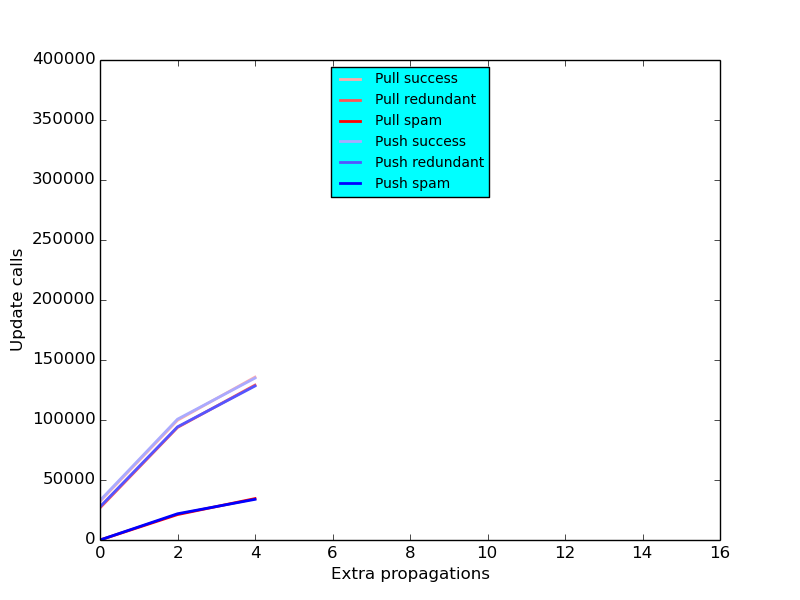
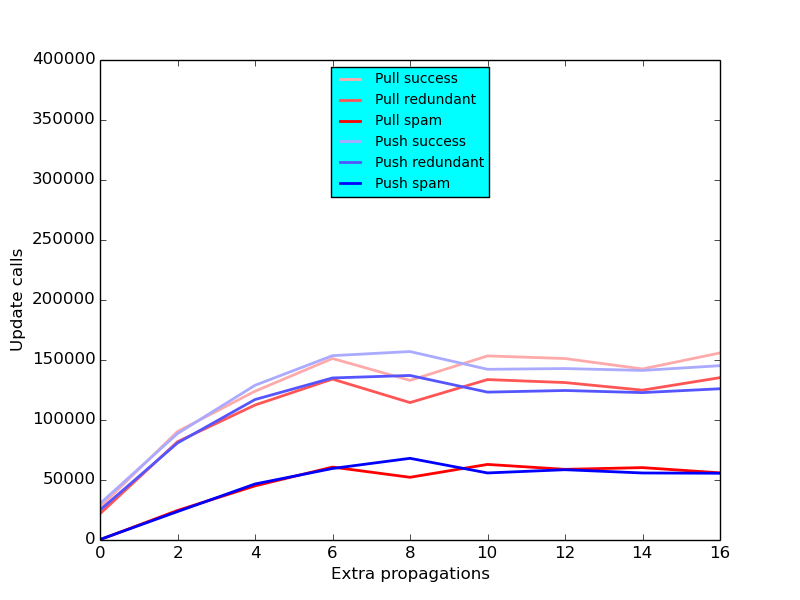
added push vs pull test

Changed region(s): [[0.125, 0.57, 0.9062, 0.9], [0.1875, 0.75, 0.9062, 0.87]]

diff --git a/benchmark/filterupdates_push_vs_pull/quasar_extraprop_plot.py b/benchmark/filterupdates_push_vs_pull/quasar_extraprop_plot.py
@@ -17,24 +17,24 @@ pull_samples = [
     json.load(open("benchmark/filterupdates_push_vs_pull/quasar_extraprop_pull_a.json", "r")),  # NOQA
     json.load(open("benchmark/filterupdates_push_vs_pull/quasar_extraprop_pull_b.json", "r")),  # NOQA
     json.load(open("benchmark/filterupdates_push_vs_pull/quasar_extraprop_pull_c.json", "r")),  # NOQA
-#   json.load(open("benchmark/filterupdates_push_vs_pull/quasar_extraprop_pull_d.json", "r")),  # NOQA
-#   json.load(open("benchmark/filterupdates_push_vs_pull/quasar_extraprop_pull_e.json", "r")),  # NOQA
-#   json.load(open("benchmark/filterupdates_push_vs_pull/quasar_extraprop_pull_f.json", "r")),  # NOQA
-#   json.load(open("benchmark/filterupdates_push_vs_pull/quasar_extraprop_pull_g.json", "r")),  # NOQA
-#   json.load(open("benchmark/filterupdates_push_vs_pull/quasar_extraprop_pull_h.json", "r")),  # NOQA
-#   json.load(open("benchmark/filterupdates_push_vs_pull/quasar_extraprop_pull_i.json", "r")),  # NOQA
+    json.load(open("benchmark/filterupdates_push_vs_pull/quasar_extraprop_pull_d.json", "r")),  # NOQA
+    json.load(open("benchmark/filterupdates_push_vs_pull/quasar_extraprop_pull_e.json", "r")),  # NOQA
+    json.load(open("benchmark/filterupdates_push_vs_pull/quasar_extraprop_pull_f.json", "r")),  # NOQA
+    json.load(open("benchmark/filterupdates_push_vs_pull/quasar_extraprop_pull_g.json", "r")),  # NOQA
+    json.load(open("benchmark/filterupdates_push_vs_pull/quasar_extraprop_pull_h.json", "r")),  # NOQA
+    json.load(open("benchmark/filterupdates_push_vs_pull/quasar_extraprop_pull_i.json", "r")),  # NOQA
 ]
 
 push_samples = [
     json.load(open("benchmark/filterupdates_push_vs_pull/quasar_extraprop_push_a.json", "r")),  # NOQA
     json.load(open("benchmark/filterupdates_push_vs_pull/quasar_extraprop_push_b.json", "r")),  # NOQA
     json.load(open("benchmark/filterupdates_push_vs_pull/quasar_extraprop_push_c.json", "r")),  # NOQA
-#   json.load(open("benchmark/filterupdates_push_vs_pull/quasar_extraprop_push_d.json", "r")),  # NOQA
-#   json.load(open("benchmark/filterupdates_push_vs_pull/quasar_extraprop_push_e.json", "r")),  # NOQA
-#   json.load(open("benchmark/filterupdates_push_vs_pull/quasar_extraprop_push_f.json", "r")),  # NOQA
-#   json.load(open("benchmark/filterupdates_push_vs_pull/quasar_extraprop_push_g.json", "r")),  # NOQA
-#   json.load(open("benchmark/filterupdates_push_vs_pull/quasar_extraprop_push_h.json", "r")),  # NOQA
-#   json.load(open("benchmark/filterupdates_push_vs_pull/quasar_extraprop_push_i.json", "r")),  # NOQA
+    json.load(open("benchmark/filterupdates_push_vs_pull/quasar_extraprop_push_d.json", "r")),  # NOQA
+    json.load(open("benchmark/filterupdates_push_vs_pull/quasar_extraprop_push_e.json", "r")),  # NOQA
+    json.load(open("benchmark/filterupdates_push_vs_pull/quasar_extraprop_push_f.json", "r")),  # NOQA
+    json.load(open("benchmark/filterupdates_push_vs_pull/quasar_extraprop_push_g.json", "r")),  # NOQA
+    json.load(open("benchmark/filterupdates_push_vs_pull/quasar_extraprop_push_h.json", "r")),  # NOQA
+    json.load(open("benchmark/filterupdates_push_vs_pull/quasar_extraprop_push_i.json", "r")),  # NOQA
 ]
 
 
